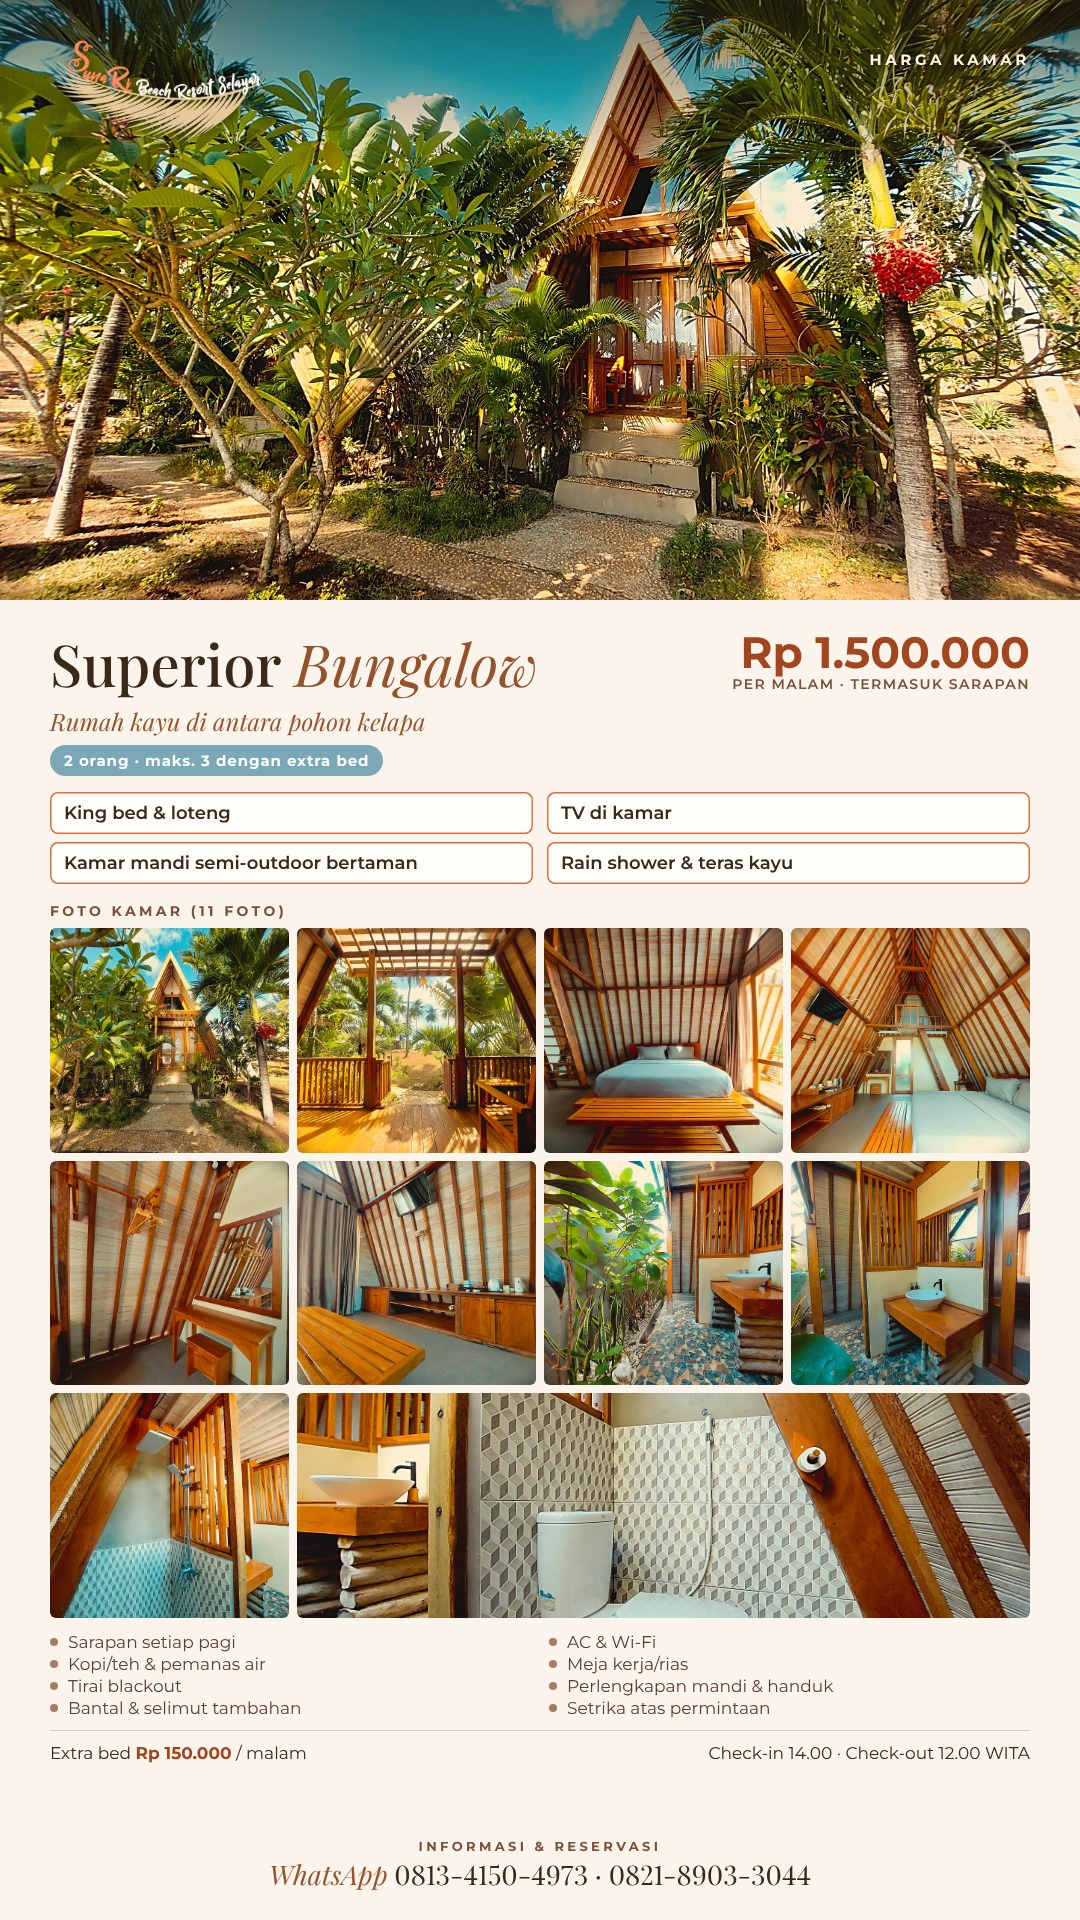
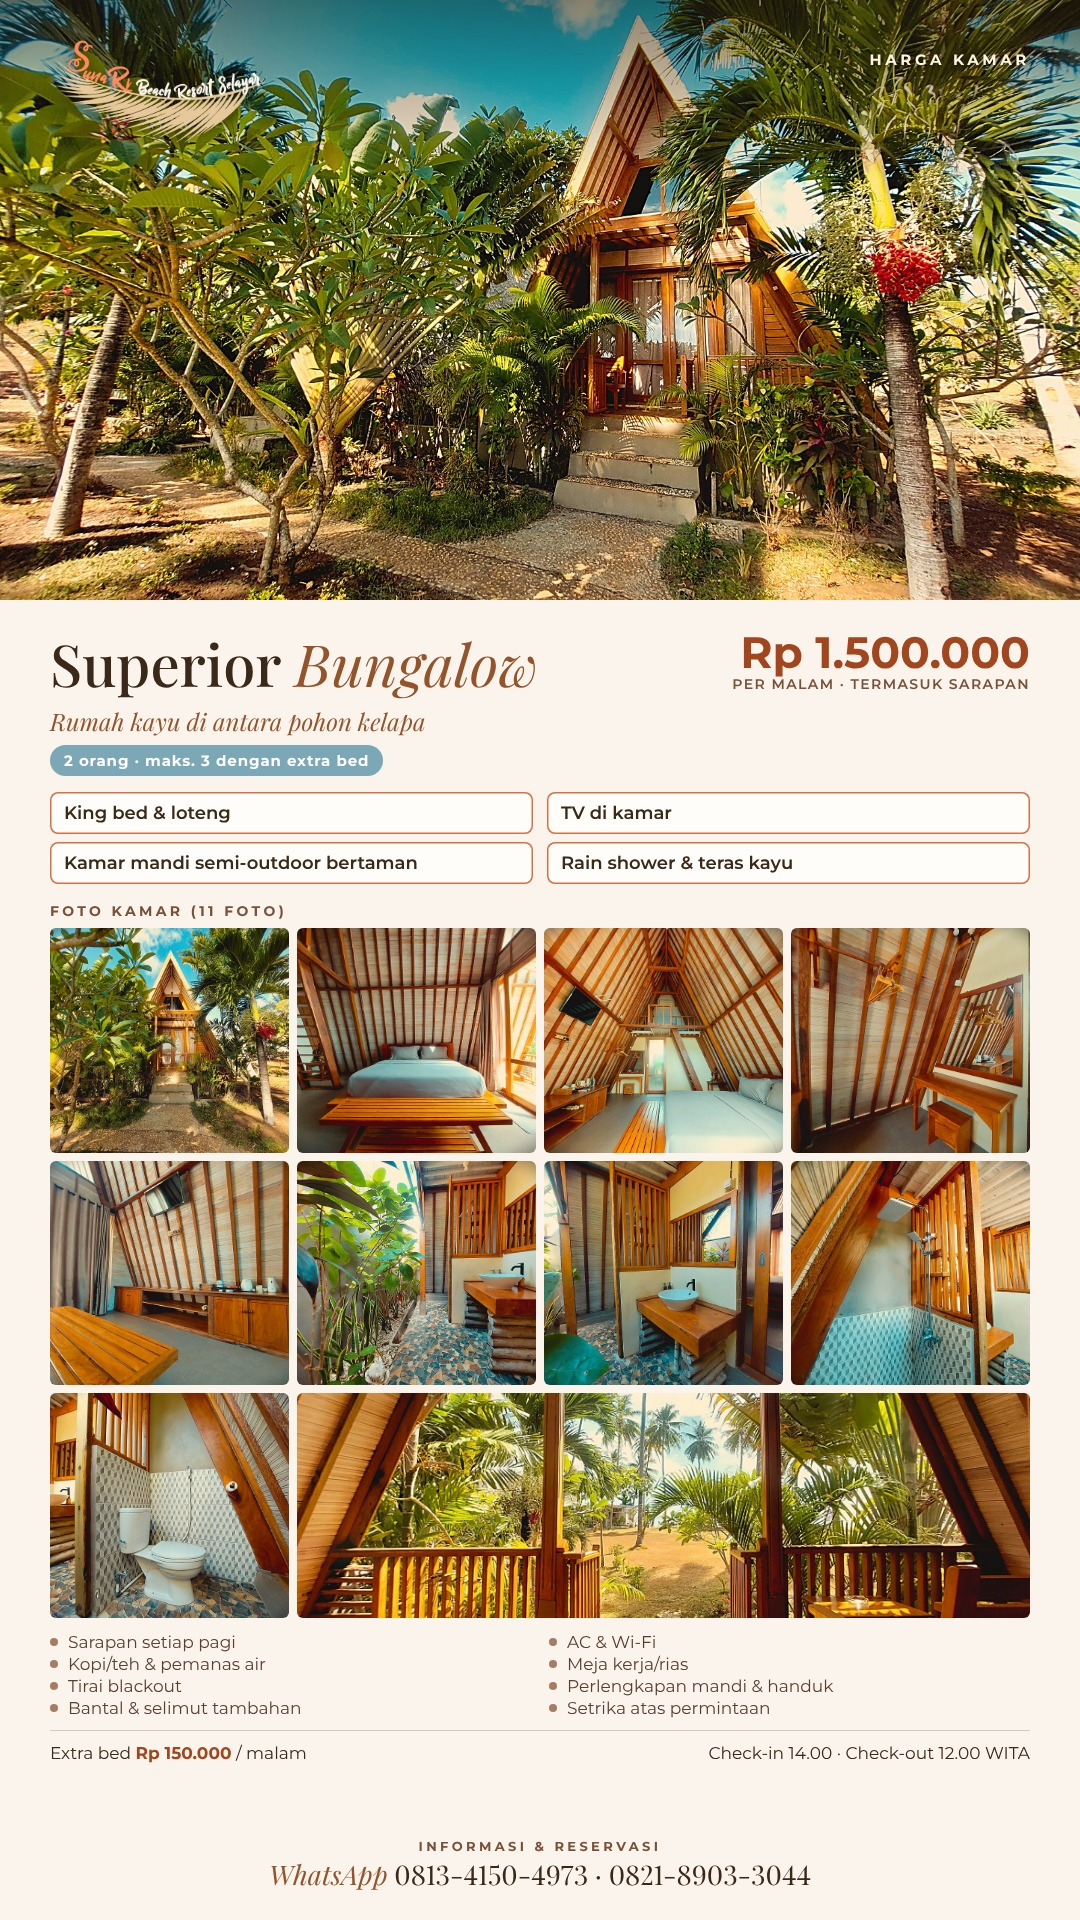
Harga Superior: foto toilet dapat kotak sendiri agar terlihat utuh (JPG & PNG HD)
Claude-Session: https://claude.ai/code/session_01KeLc5eBGUnchV5ne3wvwHX

Changed region(s): [[0.0306, 0.4688, 0.9778, 0.8438]]

diff --git a/whatsapp/daftar-harga/harga_per_type.html b/whatsapp/daftar-harga/harga_per_type.html
@@ -30,7 +30,7 @@
     <div class="pr"><b>Rp 900.000</b><span>per malam · termasuk sarapan</span></div></div>
     <div class="row2"><div class="tag">Pagi menghadap laut Selayar</div></div><div class="row2" style="margin-top:8px"><div class="cap">2 orang · maks. 3 dengan extra bed</div></div>
     <div class="hl"><div>Queen bed</div><div>Kamar mandi dalam bernuansa bambu</div><div>Shower &amp; toilet duduk</div><div>Teras luas view laut &amp; taman</div></div>
-    <div class="gt">Foto kamar (5 foto)</div><div class="gal" style="grid-template-columns:repeat(2,1fr);grid-template-rows:repeat(2,1fr)"><div style=""><img src="../katalog-standard/foto/g_kamarsudut.jpg"></div><div style=""><img src="../katalog-standard/foto/g_kamardepan.jpg"></div><div style=""><img src="../katalog-standard/foto/g_bambu.jpg"></div><div style=""><img src="../katalog-standard/foto/g_toilet.jpg"></div></div>
+    <div class="gt">Foto kamar (5 foto)</div><div class="gal" style="grid-template-columns:repeat(2,1fr);grid-template-rows:repeat(2,1fr)"><div style=""><img src="../katalog-standard/foto/g_kamarsudut.jpg" style="object-position:center"></div><div style=""><img src="../katalog-standard/foto/g_kamardepan.jpg" style="object-position:center"></div><div style=""><img src="../katalog-standard/foto/g_bambu.jpg" style="object-position:center"></div><div style=""><img src="../katalog-standard/foto/g_toilet.jpg" style="object-position:center"></div></div>
     <div class="fx"><div>Sarapan setiap pagi</div><div>AC &amp; Wi-Fi</div><div>Kopi/teh &amp; pemanas air</div><div>Meja kerja/rias</div><div>Tirai blackout</div><div>Perlengkapan mandi &amp; handuk</div><div>Bantal &amp; selimut tambahan</div><div>Setrika atas permintaan</div></div>
     <div class="eb"><span>Extra bed <b>Rp 150.000</b> / malam</span><span>Check-in 14.00 · Check-out 12.00 WITA</span></div></div>
   <div class="ft"><div class="c">Informasi &amp; reservasi</div><div class="w"><i>WhatsApp</i> 0813-4150-4973 · 0821-8903-3044</div></div></div><div class="pg" id="harga-vip-standard">
@@ -39,7 +39,7 @@
     <div class="pr"><b>Rp 1.000.000</b><span>per malam · termasuk sarapan</span></div></div>
     <div class="row2"><div class="tag">Turun tangga, langsung pasir</div></div><div class="row2" style="margin-top:8px"><div class="cap">2 orang · maks. 3 dengan extra bed</div></div>
     <div class="hl"><div>King bed</div><div>Rumah panggung tepi pantai</div><div>Lebih luas dari Standard</div><div>Teras view laut atau taman</div></div>
-    <div class="gt">Foto kamar (10 foto)</div><div class="gal" style="grid-template-columns:repeat(3,1fr);grid-template-rows:repeat(3,1fr)"><div style=""><img src="../katalog-vip-standard/foto/g_terasview.jpg"></div><div style=""><img src="../katalog-vip-standard/foto/g_terassamping.jpg"></div><div style=""><img src="../katalog-vip-standard/foto/g_teraslaut.jpg"></div><div style=""><img src="../katalog-vip-standard/foto/g_kamarsudut.jpg"></div><div style=""><img src="../katalog-vip-standard/foto/g_kamardepan.jpg"></div><div style=""><img src="../katalog-vip-standard/foto/g_kamarsamping.jpg"></div><div style=""><img src="../katalog-vip-standard/foto/g_wastafel.jpg"></div><div style=""><img src="../katalog-vip-standard/foto/g_shower.jpg"></div><div style=""><img src="../katalog-vip-standard/foto/g_toilet.jpg"></div></div>
+    <div class="gt">Foto kamar (10 foto)</div><div class="gal" style="grid-template-columns:repeat(3,1fr);grid-template-rows:repeat(3,1fr)"><div style=""><img src="../katalog-vip-standard/foto/g_terasview.jpg" style="object-position:center"></div><div style=""><img src="../katalog-vip-standard/foto/g_terassamping.jpg" style="object-position:center"></div><div style=""><img src="../katalog-vip-standard/foto/g_teraslaut.jpg" style="object-position:center"></div><div style=""><img src="../katalog-vip-standard/foto/g_kamarsudut.jpg" style="object-position:center"></div><div style=""><img src="../katalog-vip-standard/foto/g_kamardepan.jpg" style="object-position:center"></div><div style=""><img src="../katalog-vip-standard/foto/g_kamarsamping.jpg" style="object-position:center"></div><div style=""><img src="../katalog-vip-standard/foto/g_wastafel.jpg" style="object-position:center"></div><div style=""><img src="../katalog-vip-standard/foto/g_shower.jpg" style="object-position:center"></div><div style=""><img src="../katalog-vip-standard/foto/g_toilet.jpg" style="object-position:center"></div></div>
     <div class="fx"><div>Sarapan setiap pagi</div><div>AC &amp; Wi-Fi</div><div>Kopi/teh &amp; pemanas air</div><div>Meja kerja/rias</div><div>Tirai blackout</div><div>Perlengkapan mandi &amp; handuk</div><div>Bantal &amp; selimut tambahan</div><div>Setrika atas permintaan</div></div>
     <div class="eb"><span>Extra bed <b>Rp 150.000</b> / malam</span><span>Check-in 14.00 · Check-out 12.00 WITA</span></div></div>
   <div class="ft"><div class="c">Informasi &amp; reservasi</div><div class="w"><i>WhatsApp</i> 0813-4150-4973 · 0821-8903-3044</div></div></div><div class="pg" id="harga-superior">
@@ -48,7 +48,7 @@
     <div class="pr"><b>Rp 1.500.000</b><span>per malam · termasuk sarapan</span></div></div>
     <div class="row2"><div class="tag">Rumah kayu di antara pohon kelapa</div></div><div class="row2" style="margin-top:8px"><div class="cap">2 orang · maks. 3 dengan extra bed</div></div>
     <div class="hl"><div>King bed &amp; loteng</div><div>TV di kamar</div><div>Kamar mandi semi-outdoor bertaman</div><div>Rain shower &amp; teras kayu</div></div>
-    <div class="gt">Foto kamar (11 foto)</div><div class="gal" style="grid-template-columns:repeat(4,1fr);grid-template-rows:repeat(3,1fr)"><div style=""><img src="../katalog-superior/foto/g_depan.jpg"></div><div style=""><img src="../katalog-superior/foto/g_teras.jpg"></div><div style=""><img src="../katalog-superior/foto/g_kamar.jpg"></div><div style=""><img src="../katalog-superior/foto/g_loteng.jpg"></div><div style=""><img src="../katalog-superior/foto/g_meja.jpg"></div><div style=""><img src="../katalog-superior/foto/g_tv.jpg"></div><div style=""><img src="../katalog-superior/foto/g_taman.jpg"></div><div style=""><img src="../katalog-superior/foto/g_wastafel.jpg"></div><div style=""><img src="../katalog-superior/foto/g_shower.jpg"></div><div style="grid-column:span 3;"><img src="../katalog-superior/foto/g_toilet.jpg"></div></div>
+    <div class="gt">Foto kamar (11 foto)</div><div class="gal" style="grid-template-columns:repeat(4,1fr);grid-template-rows:repeat(3,1fr)"><div style=""><img src="../katalog-superior/foto/g_depan.jpg" style="object-position:center"></div><div style=""><img src="../katalog-superior/foto/g_kamar.jpg" style="object-position:center"></div><div style=""><img src="../katalog-superior/foto/g_loteng.jpg" style="object-position:center"></div><div style=""><img src="../katalog-superior/foto/g_meja.jpg" style="object-position:center"></div><div style=""><img src="../katalog-superior/foto/g_tv.jpg" style="object-position:center"></div><div style=""><img src="../katalog-superior/foto/g_taman.jpg" style="object-position:center"></div><div style=""><img src="../katalog-superior/foto/g_wastafel.jpg" style="object-position:center"></div><div style=""><img src="../katalog-superior/foto/g_shower.jpg" style="object-position:center"></div><div style=""><img src="../katalog-superior/foto/g_toilet.jpg" style="object-position:48% 75%"></div><div style="grid-column:span 3;"><img src="../katalog-superior/foto/g_teras.jpg" style="object-position:center"></div></div>
     <div class="fx"><div>Sarapan setiap pagi</div><div>AC &amp; Wi-Fi</div><div>Kopi/teh &amp; pemanas air</div><div>Meja kerja/rias</div><div>Tirai blackout</div><div>Perlengkapan mandi &amp; handuk</div><div>Bantal &amp; selimut tambahan</div><div>Setrika atas permintaan</div></div>
     <div class="eb"><span>Extra bed <b>Rp 150.000</b> / malam</span><span>Check-in 14.00 · Check-out 12.00 WITA</span></div></div>
   <div class="ft"><div class="c">Informasi &amp; reservasi</div><div class="w"><i>WhatsApp</i> 0813-4150-4973 · 0821-8903-3044</div></div></div><div class="pg" id="harga-vip-superior">
@@ -57,7 +57,7 @@
     <div class="pr"><b>Rp 2.500.000</b><span>per malam · termasuk sarapan</span></div></div>
     <div class="row2"><div class="tag">Kelas tertinggi · berendam di bawah langit terbuka</div></div><div class="row2" style="margin-top:8px"><div class="cap">2 orang · maks. 3 dengan extra bed</div></div>
     <div class="hl"><div>King bed &amp; loteng</div><div>TV &amp; mini bar/kulkas</div><div>Bathtub, air panas &amp; dingin</div><div>Kamar mandi beratap kaca</div></div>
-    <div class="gt">Foto kamar (10 foto)</div><div class="gal" style="grid-template-columns:repeat(3,1fr);grid-template-rows:repeat(3,1fr)"><div style=""><img src="../katalog-vip-superior/foto/g_teras.jpg"></div><div style=""><img src="../katalog-vip-superior/foto/g_terasdepan.jpg"></div><div style=""><img src="../katalog-vip-superior/foto/g_kamar.jpg"></div><div style=""><img src="../katalog-vip-superior/foto/g_loteng.jpg"></div><div style=""><img src="../katalog-vip-superior/foto/g_dariloteng.jpg"></div><div style=""><img src="../katalog-vip-superior/foto/g_bathtub.jpg"></div><div style=""><img src="../katalog-vip-superior/foto/g_wastafel.jpg"></div><div style=""><img src="../katalog-vip-superior/foto/g_sabun.jpg"></div><div style=""><img src="../katalog-vip-superior/foto/g_toilet.jpg"></div></div>
+    <div class="gt">Foto kamar (10 foto)</div><div class="gal" style="grid-template-columns:repeat(3,1fr);grid-template-rows:repeat(3,1fr)"><div style=""><img src="../katalog-vip-superior/foto/g_teras.jpg" style="object-position:center"></div><div style=""><img src="../katalog-vip-superior/foto/g_terasdepan.jpg" style="object-position:center"></div><div style=""><img src="../katalog-vip-superior/foto/g_kamar.jpg" style="object-position:center"></div><div style=""><img src="../katalog-vip-superior/foto/g_loteng.jpg" style="object-position:center"></div><div style=""><img src="../katalog-vip-superior/foto/g_dariloteng.jpg" style="object-position:center"></div><div style=""><img src="../katalog-vip-superior/foto/g_bathtub.jpg" style="object-position:center"></div><div style=""><img src="../katalog-vip-superior/foto/g_wastafel.jpg" style="object-position:center"></div><div style=""><img src="../katalog-vip-superior/foto/g_sabun.jpg" style="object-position:center"></div><div style=""><img src="../katalog-vip-superior/foto/g_toilet.jpg" style="object-position:center"></div></div>
     <div class="fx"><div>Sarapan setiap pagi</div><div>AC &amp; Wi-Fi</div><div>Kopi/teh &amp; pemanas air</div><div>Meja kerja/rias</div><div>Tirai blackout</div><div>Perlengkapan mandi &amp; handuk</div><div>Bantal &amp; selimut tambahan</div><div>Setrika atas permintaan</div></div>
     <div class="eb"><span>Extra bed <b>Rp 150.000</b> / malam</span><span>Check-in 14.00 · Check-out 12.00 WITA</span></div></div>
   <div class="ft"><div class="c">Informasi &amp; reservasi</div><div class="w"><i>WhatsApp</i> 0813-4150-4973 · 0821-8903-3044</div></div></div><div class="pg" id="harga-family-superior">
@@ -66,7 +66,7 @@
     <div class="pr"><b>Rp 2.500.000</b><span>per malam · termasuk sarapan</span></div></div>
     <div class="row2"><div class="tag">Satu rumah, dua lantai, semua bersama</div></div><div class="row2" style="margin-top:8px"><div class="cap">6 orang · maks. 8 dengan 2 extra bed</div></div>
     <div class="hl"><div>2 lantai</div><div>1 tempat tidur besar + 4 kasur</div><div>2 kamar mandi (lantai 1 &amp; 2)</div><div>Teras pribadi</div></div>
-    <div class="gt">Foto kamar (13 foto)</div><div class="gal" style="grid-template-columns:repeat(4,1fr);grid-template-rows:repeat(3,1fr)"><div style=""><img src="../katalog-family-superior/foto/g_terassamping.jpg"></div><div style=""><img src="../katalog-family-superior/foto/g_terassofa.jpg"></div><div style=""><img src="../katalog-family-superior/foto/g_bawahdepan.jpg"></div><div style=""><img src="../katalog-family-superior/foto/g_bawahsamping.jpg"></div><div style=""><img src="../katalog-family-superior/foto/g_bawahsudut.jpg"></div><div style=""><img src="../katalog-family-superior/foto/g_lorong.jpg"></div><div style=""><img src="../katalog-family-superior/foto/g_atas4kasur.jpg"></div><div style=""><img src="../katalog-family-superior/foto/g_ataskettle.jpg"></div><div style=""><img src="../katalog-family-superior/foto/g_atasmeja.jpg"></div><div style=""><img src="../katalog-family-superior/foto/g_wastafel.jpg"></div><div style=""><img src="../katalog-family-superior/foto/g_shower.jpg"></div><div style=""><img src="../katalog-family-superior/foto/g_toilet.jpg"></div></div>
+    <div class="gt">Foto kamar (13 foto)</div><div class="gal" style="grid-template-columns:repeat(4,1fr);grid-template-rows:repeat(3,1fr)"><div style=""><img src="../katalog-family-superior/foto/g_terassamping.jpg" style="object-position:center"></div><div style=""><img src="../katalog-family-superior/foto/g_terassofa.jpg" style="object-position:center"></div><div style=""><img src="../katalog-family-superior/foto/g_bawahdepan.jpg" style="object-position:center"></div><div style=""><img src="../katalog-family-superior/foto/g_bawahsamping.jpg" style="object-position:center"></div><div style=""><img src="../katalog-family-superior/foto/g_bawahsudut.jpg" style="object-position:center"></div><div style=""><img src="../katalog-family-superior/foto/g_lorong.jpg" style="object-position:center"></div><div style=""><img src="../katalog-family-superior/foto/g_atas4kasur.jpg" style="object-position:center"></div><div style=""><img src="../katalog-family-superior/foto/g_ataskettle.jpg" style="object-position:center"></div><div style=""><img src="../katalog-family-superior/foto/g_atasmeja.jpg" style="object-position:center"></div><div style=""><img src="../katalog-family-superior/foto/g_wastafel.jpg" style="object-position:center"></div><div style=""><img src="../katalog-family-superior/foto/g_shower.jpg" style="object-position:center"></div><div style=""><img src="../katalog-family-superior/foto/g_toilet.jpg" style="object-position:center"></div></div>
     <div class="fx"><div>Sarapan setiap pagi</div><div>AC &amp; Wi-Fi</div><div>Kopi/teh &amp; pemanas air</div><div>Meja kerja/rias</div><div>Tirai blackout</div><div>Perlengkapan mandi &amp; handuk</div><div>Bantal &amp; selimut tambahan</div><div>Setrika atas permintaan</div></div>
     <div class="eb"><span>Extra bed <b>Rp 150.000</b> / malam</span><span>Check-in 14.00 · Check-out 12.00 WITA</span></div></div>
   <div class="ft"><div class="c">Informasi &amp; reservasi</div><div class="w"><i>WhatsApp</i> 0813-4150-4973 · 0821-8903-3044</div></div></div></body></html>

diff --git a/whatsapp/daftar-harga/build_per_type.py b/whatsapp/daftar-harga/build_per_type.py
@@ -20,7 +20,7 @@ ROOMS = [
   "2 orang · maks. 3 dengan extra bed", "Turun tangga, langsung pasir",
   ["King bed", "Rumah panggung tepi pantai", "Lebih luas dari Standard", "Teras view laut atau taman"]),
  ("superior", "Superior", "Bungalow", 1_500_000, "../katalog-superior/foto/", "g_eksterior",
-  ["g_depan", "g_teras", "g_kamar", "g_loteng", "g_meja", "g_tv", "g_taman", "g_wastafel", "g_shower", "g_toilet"],
+  ["g_depan", "g_kamar", "g_loteng", "g_meja", "g_tv", "g_taman", "g_wastafel", "g_shower", "g_toilet:48% 75%", "g_teras"],
   "2 orang · maks. 3 dengan extra bed", "Rumah kayu di antara pohon kelapa",
   ["King bed &amp; loteng", "TV di kamar", "Kamar mandi semi-outdoor bertaman", "Rain shower &amp; teras kayu"]),
  ("vip-superior", "VIP Superior", "Bungalow", 2_500_000, "../katalog-vip-superior/foto/", "g_eksterior",
@@ -69,7 +69,8 @@ for key, a, b, price, F, main, rest, cap, tag, hl in ROOMS:
         span = ""
         if i == n - 1 and n % cols:
             span = f"grid-column:span {cols - (n % cols) + 1};"
-        cells.append(f'<div style="{span}"><img src="{F}{k}.jpg"></div>')
+        name, _, pos = k.partition(":")
+        cells.append(f'<div style="{span}"><img src="{F}{name}.jpg" style="object-position:{pos or "center"}"></div>')
     gal = f'<div class="gal" style="grid-template-columns:repeat({cols},1fr);grid-template-rows:repeat({rows},1fr)">{"".join(cells)}</div>'
     PAGES.append(f'''<div class="pg" id="harga-{key}">
   <div class="main"><img class="bg" src="{F}{main}.jpg"><div class="sh"></div><img class="lg" src="{LOGO_D}"><div class="pt">Harga kamar</div></div>
